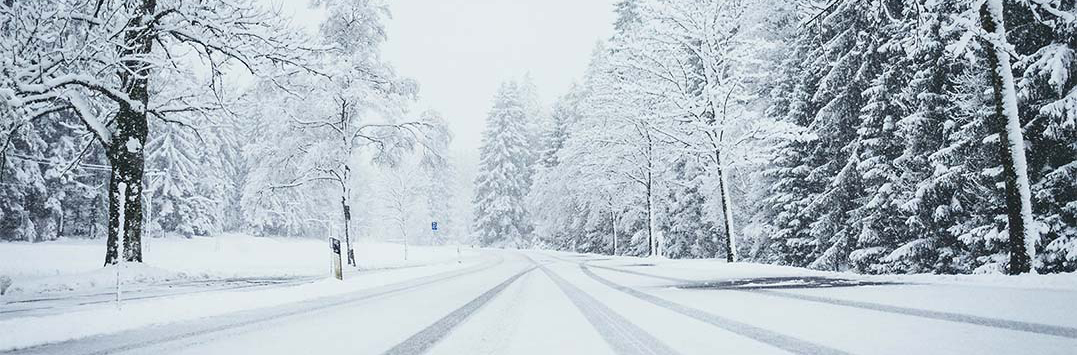
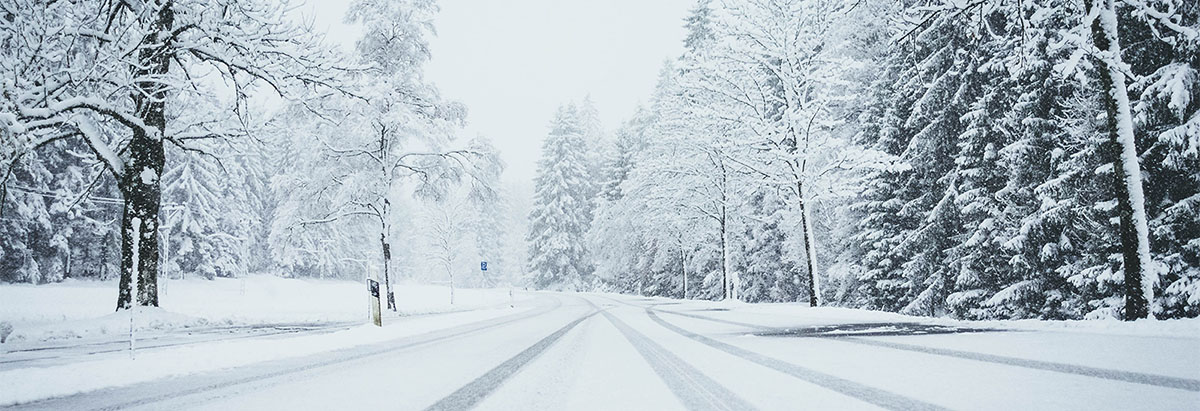
Hero edited

diff --git a/public/style.css b/public/style.css
@@ -12,7 +12,7 @@ a {
   width: 100%; }
 
 h1 {
-  font-size: 1.5rem;
+  font-size: 1.4rem;
   color: #154360 !important; }
   @media (max-width: 420px) {
     h1 {
@@ -109,14 +109,14 @@ ul {
   filter: invert(22%) sepia(23%) saturate(1535%) hue-rotate(160deg) brightness(92%) contrast(93%); }
 
 .hero {
-  height: 400px;
+  height: 300px;
   width: auto;
   background-image: url("img/winter2.jpg");
   background-position: bottom center;
   background-repeat: no-repeat; }
 
 .hero-container {
-  height: 400px;
+  height: 300px;
   display: flex;
   justify-content: flex-end;
   align-items: center;

diff --git a/sass/main.scss b/sass/main.scss
@@ -49,7 +49,7 @@ a{
 }
 
 h1 {
-  font-size: 1.5rem;
+  font-size: 1.4rem;
   color: $color-primary !important;
 
   @include for-small-phone-only {
@@ -174,7 +174,7 @@ ul {
 }
 
 .hero {
-  height: 400px;
+  height: 300px;
   width:auto;
   background-image: url('img/winter2.jpg');
   background-position: bottom center;
@@ -182,7 +182,7 @@ ul {
 }
 
 .hero-container {
-  height: 400px;
+  height: 300px;
   display: flex;
   justify-content: flex-end;
   align-items: center;
